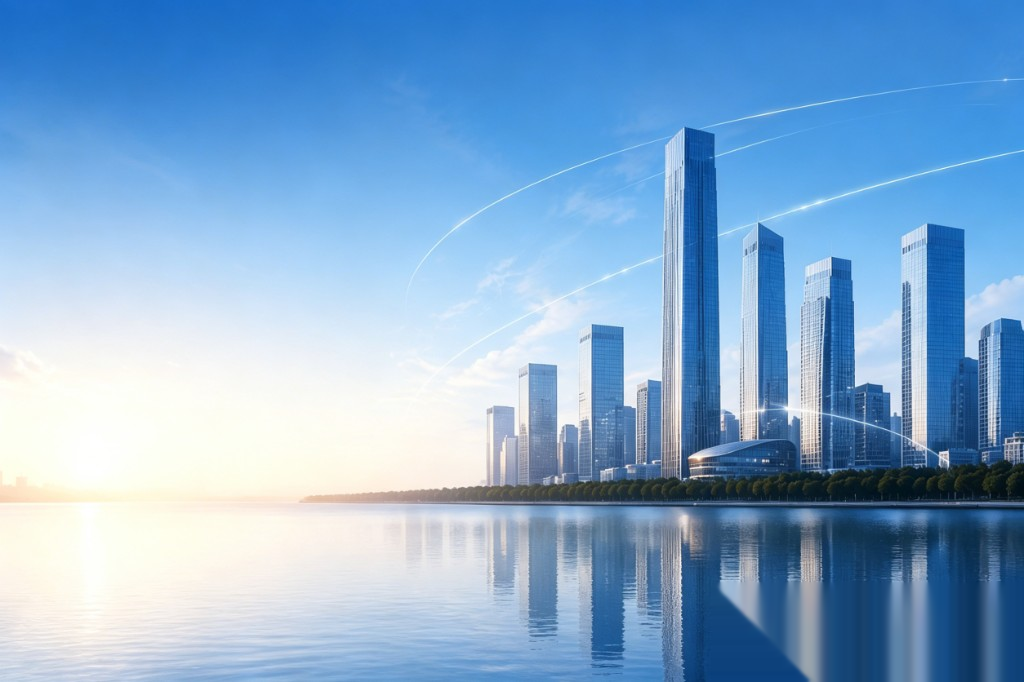
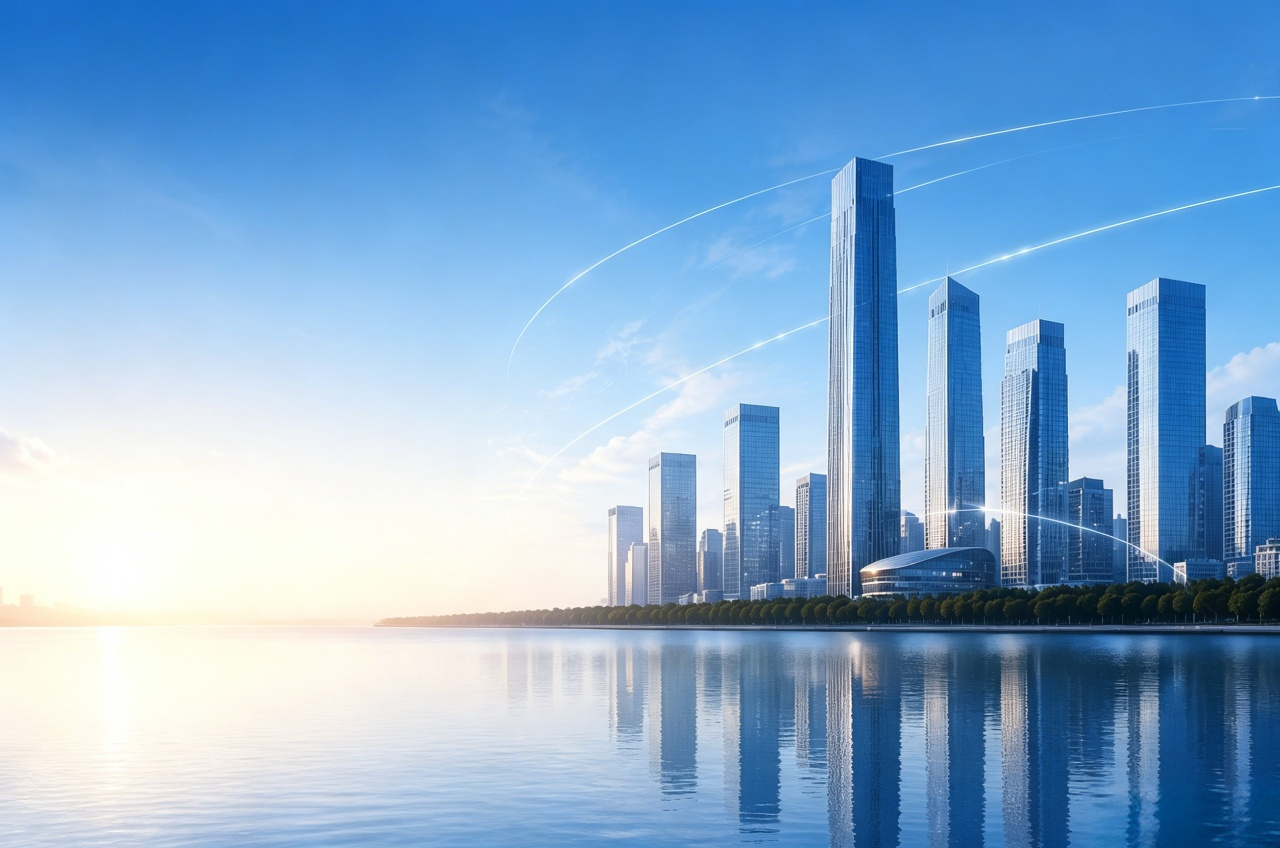
1

diff --git a/src/views/corporate/pages/Home.vue b/src/views/corporate/pages/Home.vue
@@ -147,11 +147,15 @@ const valueProps = [
   flex: 1;
   display: flex;
   align-items: center;
+  justify-content: flex-start;
+  align-self: stretch;
+  width: 100%;
   padding: 40px 24px 180px;
 }
 
 .corp-home__content {
   max-width: 560px;
+  text-align: left;
 }
 
 .corp-home__title {
